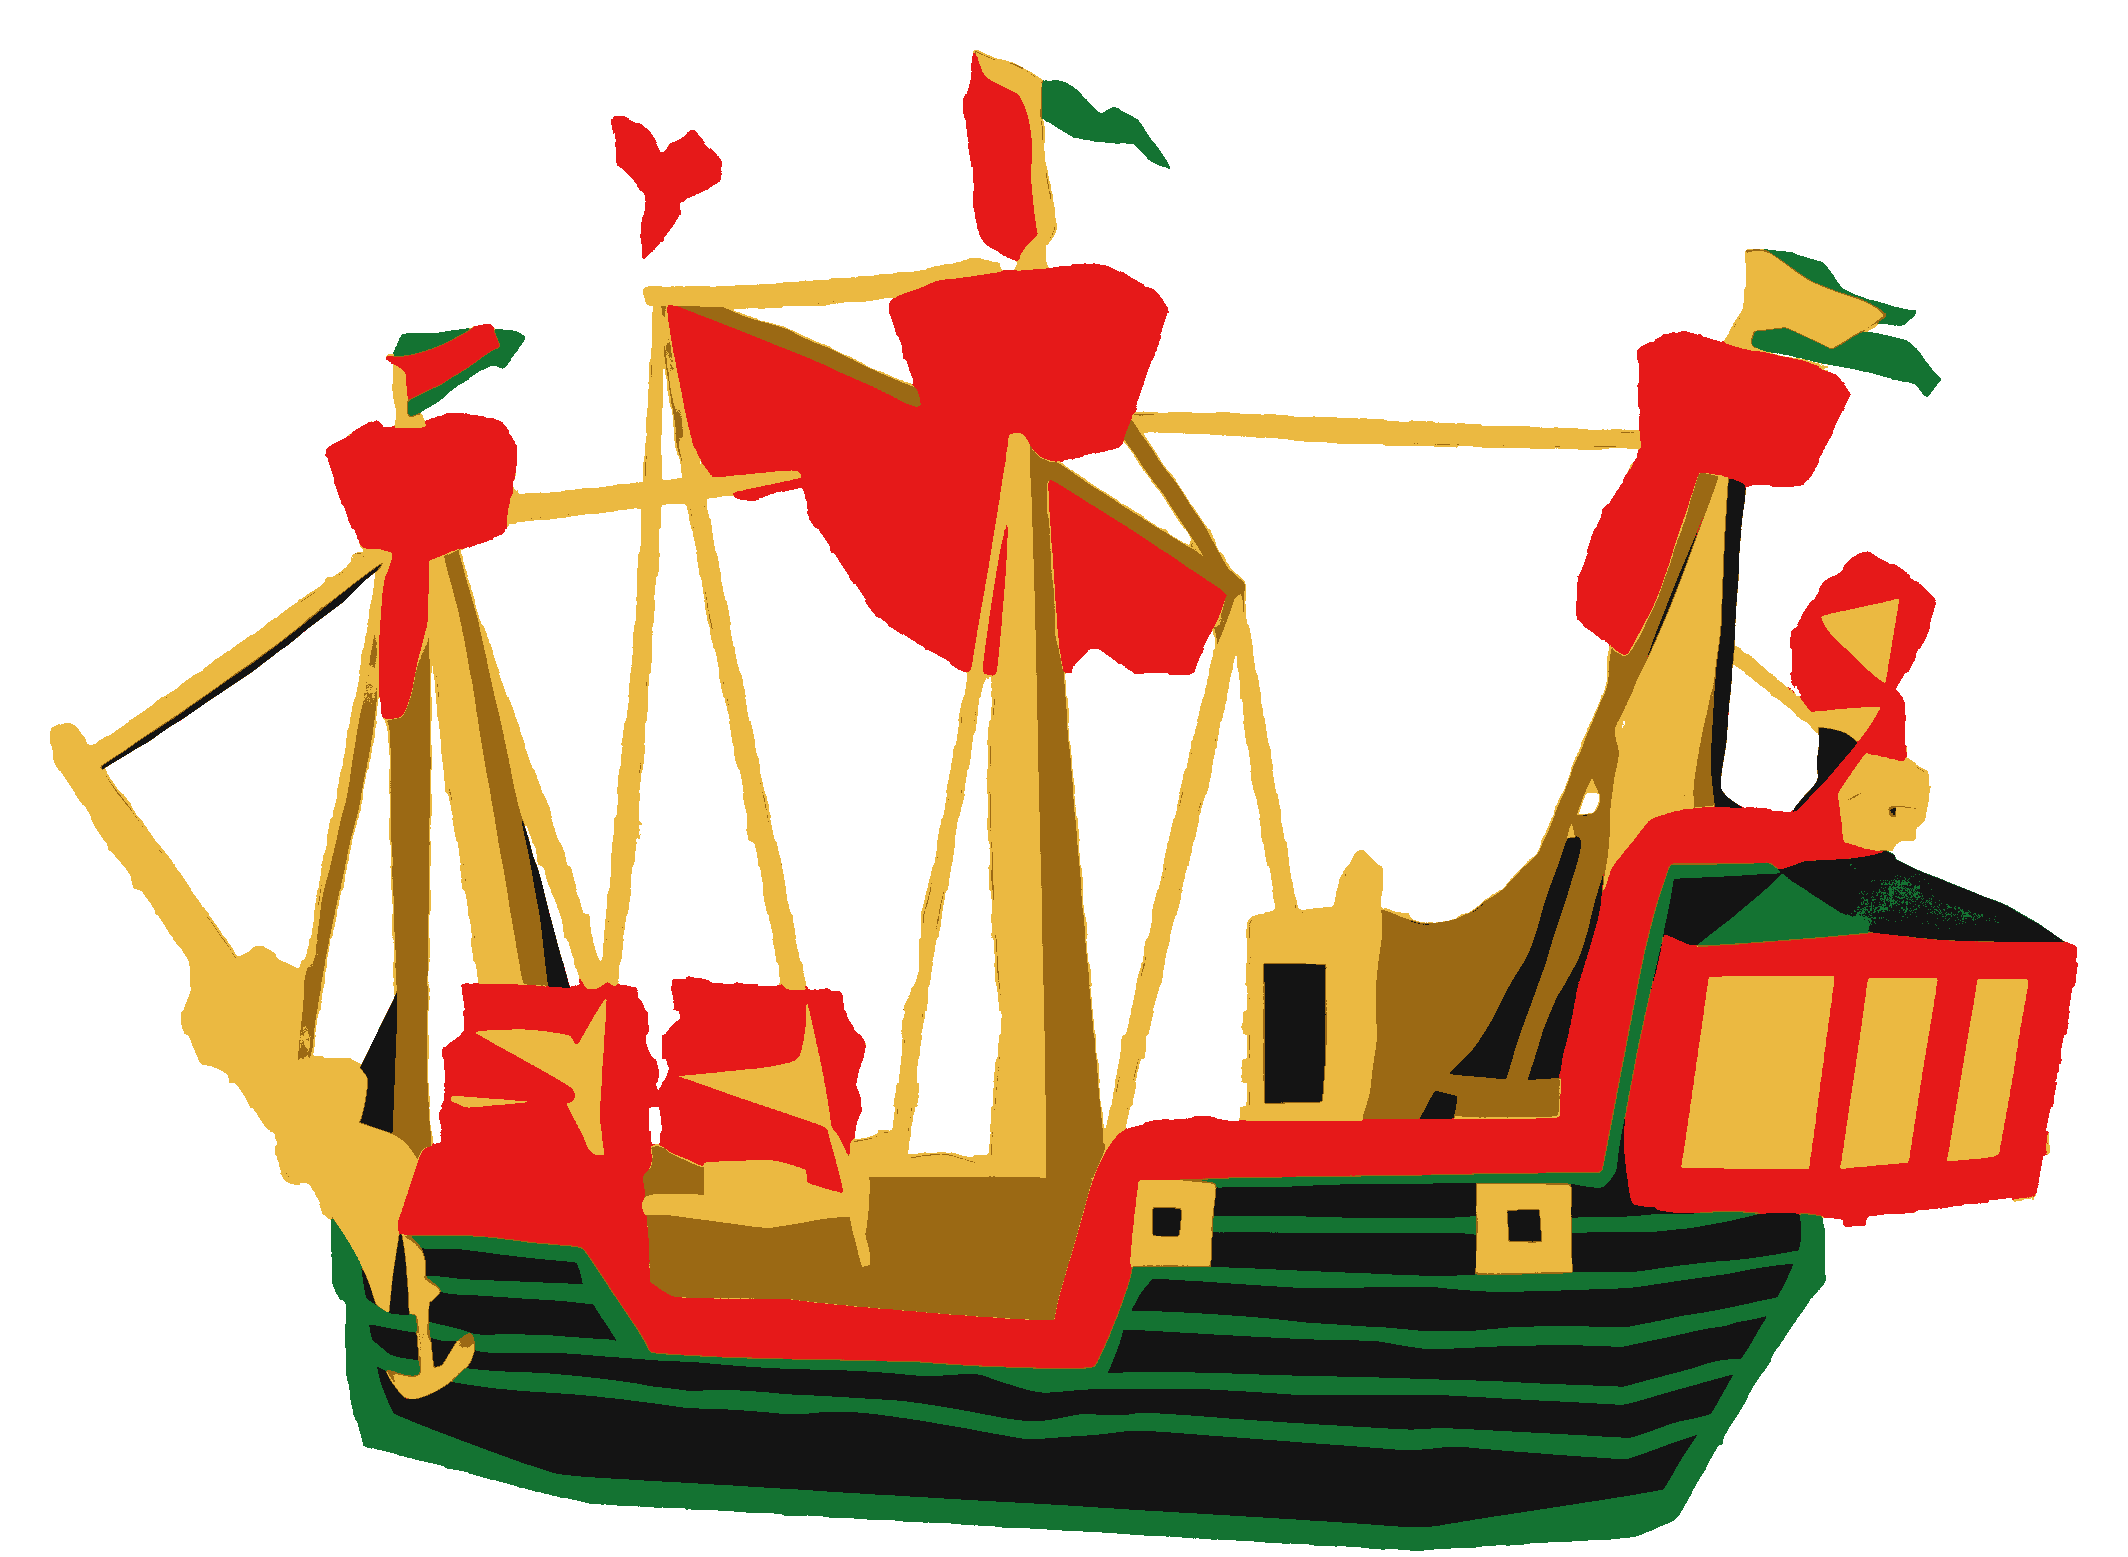
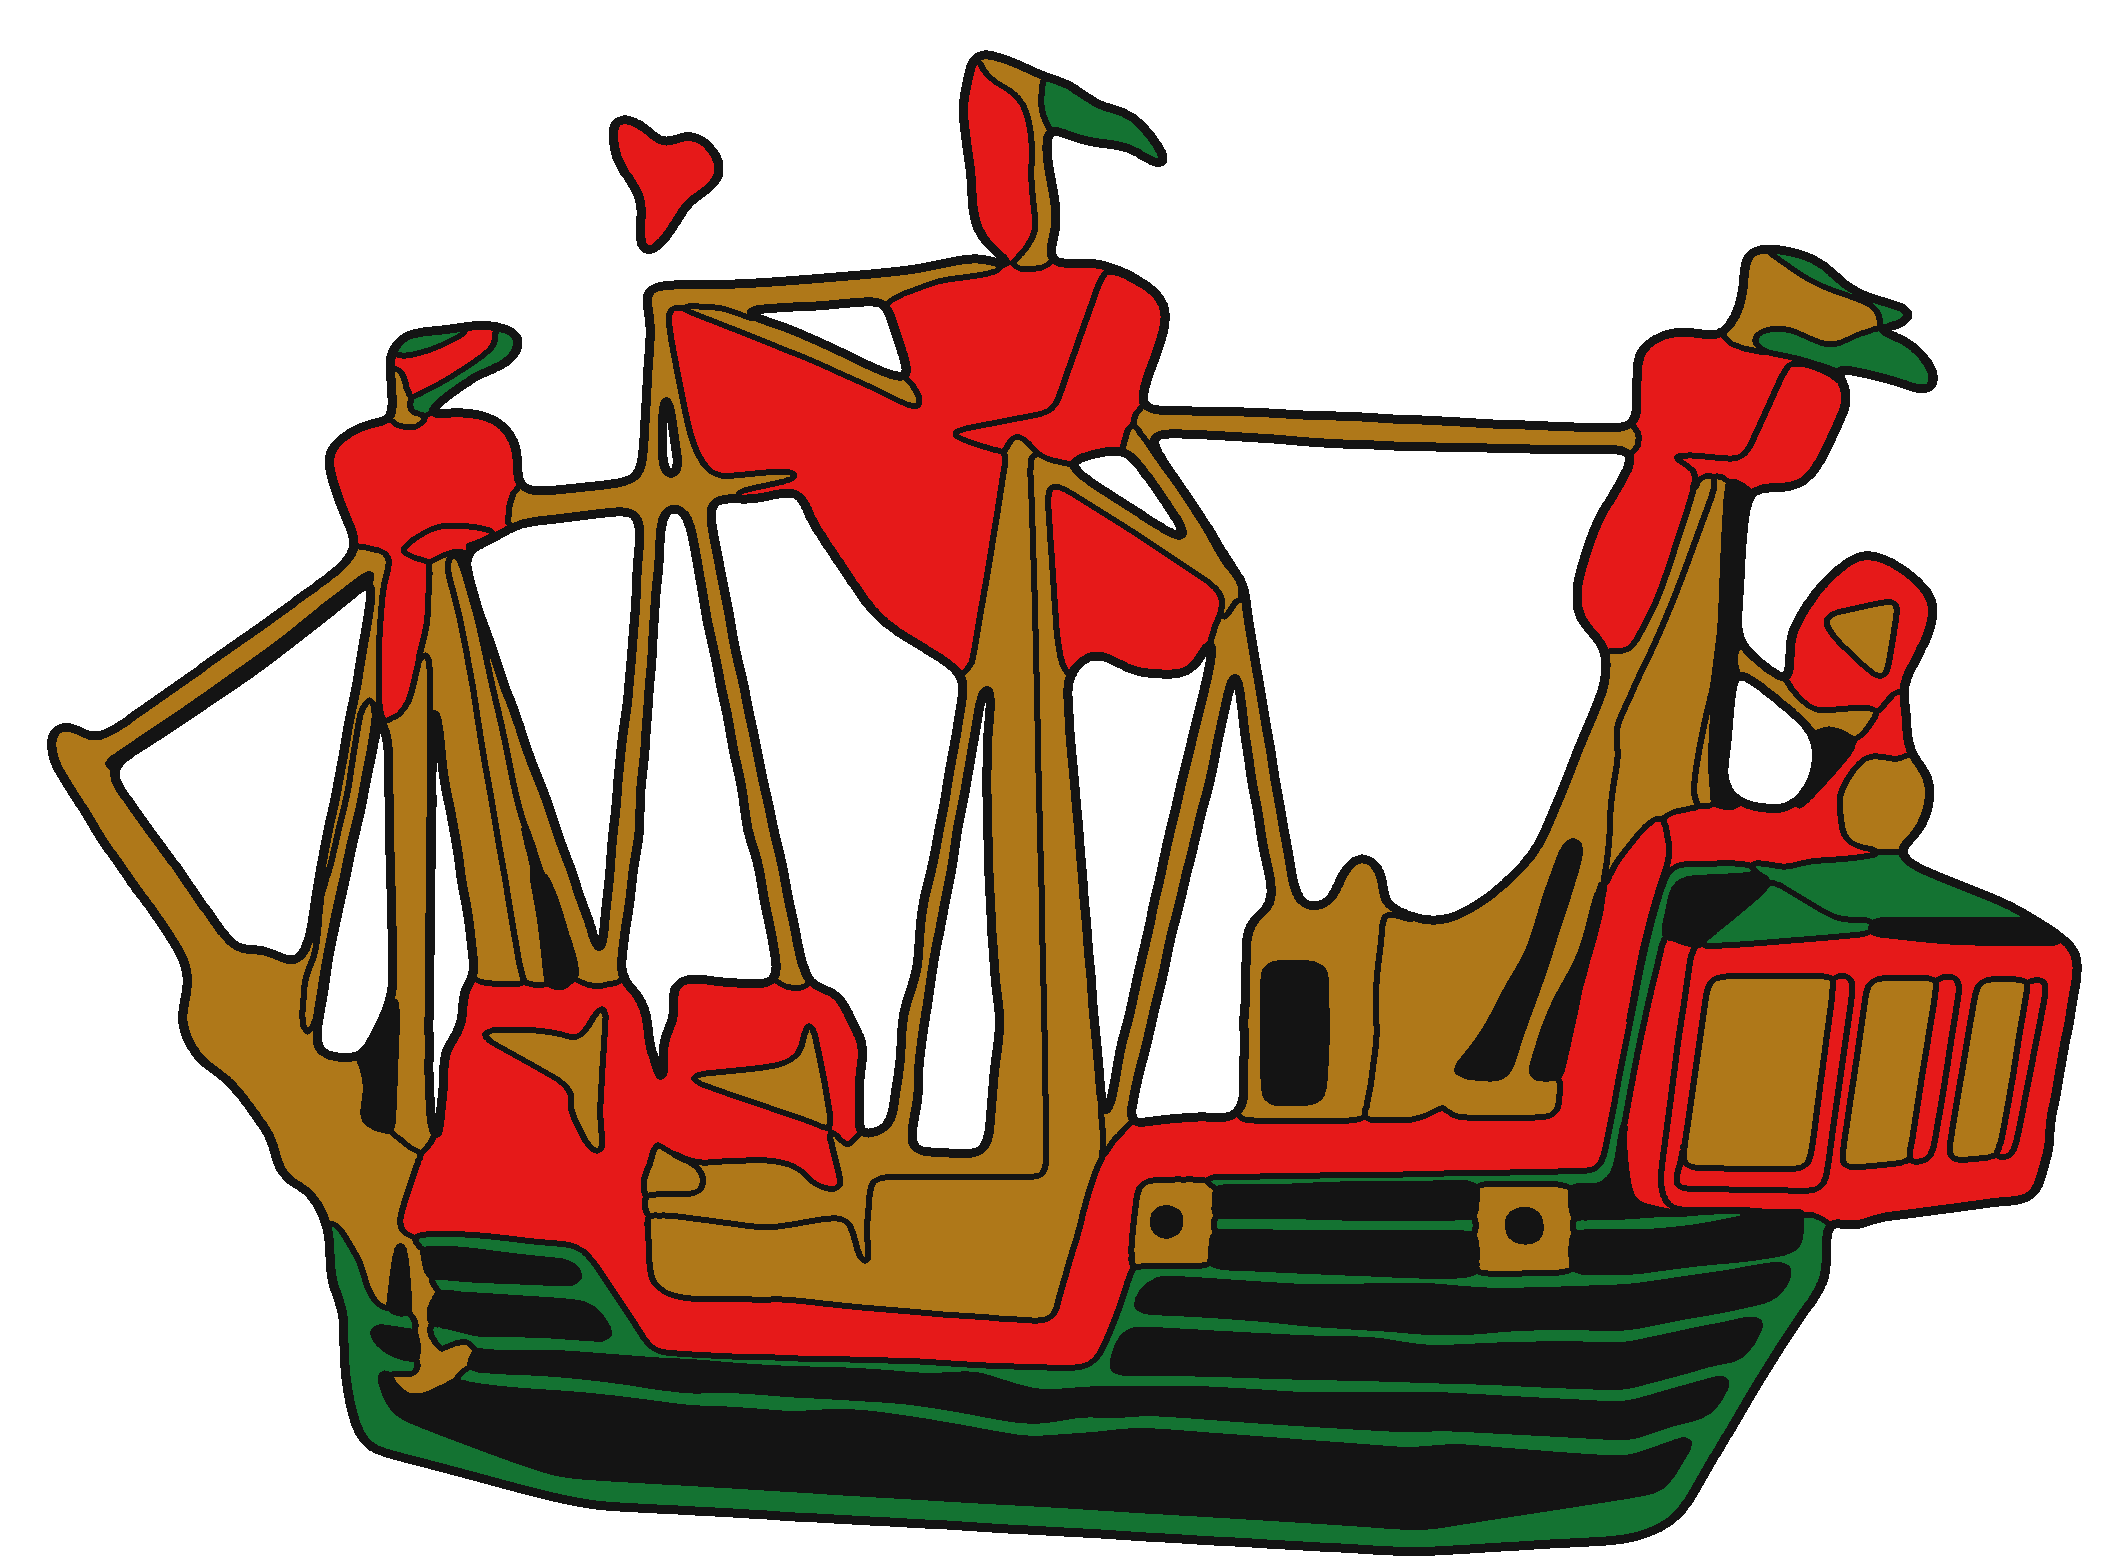
feat: clean up Pirate Ship rough edges and convert to 4-color cartoon outlined asset

Changed region(s): [[0.0, 0.0308, 0.9925, 0.9557], [0.2481, 0.9249, 0.8064, 1.0], [0.7133, 0.3699, 0.7444, 0.4008]]

diff --git a/simulator/app.js b/simulator/app.js
@@ -157,14 +157,14 @@ defaultDragonImg.onload = () => {
 };
 defaultDragonImg.src = 'assets/petes_dragon_transparent.png';
 
-// Pirate Ship Artwork (Float 5 Default - 5-Color Transparent PNG from Pirateshipsimple.png)
+// Pirate Ship Artwork (Float 5 Default - 4-Color Transparent PNG from Pirateshipsimple.png)
 const pirateShipImg = new Image();
 let pirateShipLoaded = false;
 pirateShipImg.onload = () => {
     pirateShipLoaded = true;
     notifyFloatImgLoaded();
 };
-pirateShipImg.src = 'assets/Pirateshipsimple.png';
+pirateShipImg.src = 'assets/Pirateshipsimple.png?v=20261103_pirate_4color';
 
 // Cinderella's Coach Artwork (Legacy)
 const cinderellasCoachImg = new Image();
@@ -268,10 +268,10 @@ floatArtworkImgs['spinning_turtle'].src = 'assets/Turtle_clean.png?v=20261103_tu
 floatArtworkImgs['spinning_snail'].src = 'assets/SimpleSnail.png';
 floatArtworkImgs['spinning_snail_original'].src = 'assets/SimpleSnail.png';
 floatArtworkImgs['spinning_snail_simplified'].src = 'assets/spinning_snail_simplified.png';
-floatArtworkImgs['pirate_ship'].src = 'assets/Pirateshipsimple.png';
-floatArtworkImgs['pirateshipsimple'].src = 'assets/Pirateshipsimple.png';
-floatArtworkImgs['cinderella_coach'].src = 'assets/Pirateshipsimple.png';
-floatArtworkImgs['cinderellas_coach'].src = 'assets/Pirateshipsimple.png';
+floatArtworkImgs['pirate_ship'].src = 'assets/Pirateshipsimple.png?v=20261103_pirate_4color';
+floatArtworkImgs['pirateshipsimple'].src = 'assets/Pirateshipsimple.png?v=20261103_pirate_4color';
+floatArtworkImgs['cinderella_coach'].src = 'assets/Pirateshipsimple.png?v=20261103_pirate_4color';
+floatArtworkImgs['cinderellas_coach'].src = 'assets/Pirateshipsimple.png?v=20261103_pirate_4color';
 floatArtworkImgs['petes_dragon'].src = 'assets/petes_dragon_transparent.png';
 floatArtworkImgs['builtin_dragon'].src = 'assets/petes_dragon_transparent.png';
 floatArtworkImgs['petes_dragon_transparent'].src = 'assets/petes_dragon_transparent.png';
@@ -3289,11 +3289,10 @@ const CRICUT_FLOAT_CONFIG = {
         tag: "PIRATE",
         svgFile: "pirate_ship.svg",
         layers: [
-            { id: "Layer_red", name: "Red Sails & Flag", hex: "#e61919", r: 230, g: 25, b: 25 },
-            { id: "Layer_gold", name: "Bright Gold Masts & Trim", hex: "#ebb941", r: 235, g: 185, b: 65 },
-            { id: "Layer_dark_gold", name: "Bronze Decks & Rigging", hex: "#9b6914", r: 155, g: 105, b: 20 },
-            { id: "Layer_green", name: "Ocean Waves", hex: "#147332", r: 20, g: 115, b: 50 },
-            { id: "Layer_black", name: "Hull & Chassis", hex: "#141414", r: 20, g: 20, b: 20 }
+            { id: "Layer_black", name: "Hull Stripes, Chassis & Cartoon Outlines", hex: "#141414", r: 20, g: 20, b: 20 },
+            { id: "Layer_red", name: "Battle Sails, Crow's Nests & Stern Cabin", hex: "#e61919", r: 230, g: 25, b: 25 },
+            { id: "Layer_golden_bronze", name: "Golden Bronze Masts, Rigging, Decks & Windows", hex: "#af7819", r: 175, g: 120, b: 25 },
+            { id: "Layer_green", name: "Emerald Hull Planking, Cabin Roof & Pennants", hex: "#147332", r: 20, g: 115, b: 50 }
         ]
     },
     'pirateshipsimple': {
@@ -3303,11 +3302,10 @@ const CRICUT_FLOAT_CONFIG = {
         tag: "PIRATE",
         svgFile: "pirate_ship.svg",
         layers: [
-            { id: "Layer_red", name: "Red Sails & Flag", hex: "#e61919", r: 230, g: 25, b: 25 },
-            { id: "Layer_gold", name: "Bright Gold Masts & Trim", hex: "#ebb941", r: 235, g: 185, b: 65 },
-            { id: "Layer_dark_gold", name: "Bronze Decks & Rigging", hex: "#9b6914", r: 155, g: 105, b: 20 },
-            { id: "Layer_green", name: "Ocean Waves", hex: "#147332", r: 20, g: 115, b: 50 },
-            { id: "Layer_black", name: "Hull & Chassis", hex: "#141414", r: 20, g: 20, b: 20 }
+            { id: "Layer_black", name: "Hull Stripes, Chassis & Cartoon Outlines", hex: "#141414", r: 20, g: 20, b: 20 },
+            { id: "Layer_red", name: "Battle Sails, Crow's Nests & Stern Cabin", hex: "#e61919", r: 230, g: 25, b: 25 },
+            { id: "Layer_golden_bronze", name: "Golden Bronze Masts, Rigging, Decks & Windows", hex: "#af7819", r: 175, g: 120, b: 25 },
+            { id: "Layer_green", name: "Emerald Hull Planking, Cabin Roof & Pennants", hex: "#147332", r: 20, g: 115, b: 50 }
         ]
     },
     'cinderella_coach': {
@@ -3317,11 +3315,10 @@ const CRICUT_FLOAT_CONFIG = {
         tag: "PIRATE",
         svgFile: "pirate_ship.svg",
         layers: [
-            { id: "Layer_red", name: "Red Sails & Flag", hex: "#e61919", r: 230, g: 25, b: 25 },
-            { id: "Layer_gold", name: "Bright Gold Masts & Trim", hex: "#ebb941", r: 235, g: 185, b: 65 },
-            { id: "Layer_dark_gold", name: "Bronze Decks & Rigging", hex: "#9b6914", r: 155, g: 105, b: 20 },
-            { id: "Layer_green", name: "Ocean Waves", hex: "#147332", r: 20, g: 115, b: 50 },
-            { id: "Layer_black", name: "Hull & Chassis", hex: "#141414", r: 20, g: 20, b: 20 }
+            { id: "Layer_black", name: "Hull Stripes, Chassis & Cartoon Outlines", hex: "#141414", r: 20, g: 20, b: 20 },
+            { id: "Layer_red", name: "Battle Sails, Crow's Nests & Stern Cabin", hex: "#e61919", r: 230, g: 25, b: 25 },
+            { id: "Layer_golden_bronze", name: "Golden Bronze Masts, Rigging, Decks & Windows", hex: "#af7819", r: 175, g: 120, b: 25 },
+            { id: "Layer_green", name: "Emerald Hull Planking, Cabin Roof & Pennants", hex: "#147332", r: 20, g: 115, b: 50 }
         ]
     },
     'cinderellas_coach': {
@@ -3331,11 +3328,10 @@ const CRICUT_FLOAT_CONFIG = {
         tag: "PIRATE",
         svgFile: "pirate_ship.svg",
         layers: [
-            { id: "Layer_red", name: "Red Sails & Flag", hex: "#e61919", r: 230, g: 25, b: 25 },
-            { id: "Layer_gold", name: "Bright Gold Masts & Trim", hex: "#ebb941", r: 235, g: 185, b: 65 },
-            { id: "Layer_dark_gold", name: "Bronze Decks & Rigging", hex: "#9b6914", r: 155, g: 105, b: 20 },
-            { id: "Layer_green", name: "Ocean Waves", hex: "#147332", r: 20, g: 115, b: 50 },
-            { id: "Layer_black", name: "Hull & Chassis", hex: "#141414", r: 20, g: 20, b: 20 }
+            { id: "Layer_black", name: "Hull Stripes, Chassis & Cartoon Outlines", hex: "#141414", r: 20, g: 20, b: 20 },
+            { id: "Layer_red", name: "Battle Sails, Crow's Nests & Stern Cabin", hex: "#e61919", r: 230, g: 25, b: 25 },
+            { id: "Layer_golden_bronze", name: "Golden Bronze Masts, Rigging, Decks & Windows", hex: "#af7819", r: 175, g: 120, b: 25 },
+            { id: "Layer_green", name: "Emerald Hull Planking, Cabin Roof & Pennants", hex: "#147332", r: 20, g: 115, b: 50 }
         ]
     },
     'carriage_nohorses': {
@@ -3410,18 +3406,16 @@ const FLOAT_STL_COLOR_CONFIG = {
         'golden_bronze': { name: "Cab Roof & Frame, Tender, Cowcatcher Flange, Drive Rod & Face", hex: "#a0732d", targetRgb: [160, 115, 45], role: "inlay", filename: "color_golden_bronze.stl" }
     },
     'pirate_ship': {
-        'black': { name: "Chassis, Hull & Rigging Accents", hex: "#141414", targetRgb: [20, 20, 20], role: "chassis" },
-        'red': { name: "Sails & Masthead Flag", hex: "#e61919", targetRgb: [230, 25, 25], role: "inlay", filename: "color_red.stl" },
-        'gold': { name: "Bright Gold Masts & Trim", hex: "#ebb941", targetRgb: [235, 185, 65], role: "inlay", filename: "color_gold.stl" },
-        'dark_gold': { name: "Antique Bronze Decks & Shading", hex: "#9b6914", targetRgb: [155, 105, 20], role: "inlay", filename: "color_dark_gold.stl" },
-        'green': { name: "Ocean Waves & Sea Keel", hex: "#147332", targetRgb: [20, 115, 50], role: "inlay", filename: "color_green.stl" }
+        'black': { name: "Chassis, Hull Stripes & Cartoon Outlines", hex: "#141414", targetRgb: [20, 20, 20], role: "chassis" },
+        'red': { name: "Battle Sails, Crow's Nests & Stern Cabin", hex: "#e61919", targetRgb: [230, 25, 25], role: "inlay", filename: "color_red.stl" },
+        'golden_bronze': { name: "Golden Bronze Masts, Rigging, Decks & Windows", hex: "#af7819", targetRgb: [175, 120, 25], role: "inlay", filename: "color_golden_bronze.stl" },
+        'green': { name: "Emerald Hull Planking, Cabin Roof & Pennants", hex: "#147332", targetRgb: [20, 115, 50], role: "inlay", filename: "color_green.stl" }
     },
     'pirateshipsimple': {
-        'black': { name: "Chassis, Hull & Rigging Accents", hex: "#141414", targetRgb: [20, 20, 20], role: "chassis" },
-        'red': { name: "Sails & Masthead Flag", hex: "#e61919", targetRgb: [230, 25, 25], role: "inlay", filename: "color_red.stl" },
-        'gold': { name: "Bright Gold Masts & Trim", hex: "#ebb941", targetRgb: [235, 185, 65], role: "inlay", filename: "color_gold.stl" },
-        'dark_gold': { name: "Antique Bronze Decks & Shading", hex: "#9b6914", targetRgb: [155, 105, 20], role: "inlay", filename: "color_dark_gold.stl" },
-        'green': { name: "Ocean Waves & Sea Keel", hex: "#147332", targetRgb: [20, 115, 50], role: "inlay", filename: "color_green.stl" }
+        'black': { name: "Chassis, Hull Stripes & Cartoon Outlines", hex: "#141414", targetRgb: [20, 20, 20], role: "chassis" },
+        'red': { name: "Battle Sails, Crow's Nests & Stern Cabin", hex: "#e61919", targetRgb: [230, 25, 25], role: "inlay", filename: "color_red.stl" },
+        'golden_bronze': { name: "Golden Bronze Masts, Rigging, Decks & Windows", hex: "#af7819", targetRgb: [175, 120, 25], role: "inlay", filename: "color_golden_bronze.stl" },
+        'green': { name: "Emerald Hull Planking, Cabin Roof & Pennants", hex: "#147332", targetRgb: [20, 115, 50], role: "inlay", filename: "color_green.stl" }
     },
     'title_drum': {
         'black': { name: "Chassis, Drum Face & Wheels", hex: "#11161d", targetRgb: [17, 22, 29], role: "chassis" },

diff --git a/PROJECT_PROGRESS.md b/PROJECT_PROGRESS.md
@@ -93,6 +93,21 @@ This project coordinates synchronized, addressable LED lighting across **7 runne
 
 ## Progress Log
 
+### 2026-11-03: Float 5 (Pirate Ship) 4-Color Cartoon Cleanup & Bold Black Outline Separation
+- **Unified Golden Bronze Palette & Black Outline Separation:**
+  - Consolidated the Pirate Ship float graphic (`2128 × 1557` RGBA) from 5 foreground colors down to a strict **4-color cartoon style** (**Black**, **Red**, **Golden Bronze**, and **Green**), unifying all lighter yellow regions (`#ebb941`) with the antique bronze regions into a single warm **Golden Bronze (`#af7819`)** while drawing bold `7px` **Black (`#141414`)** outlines along every former yellow-to-bronze boundary (masts, rigging stays, bowsprit figurehead, lower sail pennants, and quarterdeck doorway/bulkhead) to keep every structural element cleanly separated.
+- **Contour Smoothing, De-Speckling & 3D Sail/Roof Facet Outlines:**
+  - Applied periodic 1D Gaussian contour smoothing (`sigma = 15.0`) to eliminate `25 × 25 px` JPEG checkerboard stair-stepping along the rigging ropes, bowsprit, and lower sails.
+  - Eliminated the 208-island green/black quantization speckle cloud on the stern cabin roof, reconstructing a solid **Green (`#147332`)** roof with a crisp **Black** ridge line separating the left and right roof slopes, and added internal **Black** facet lines inside the **Red (`#e61919`)** crow's nests and billowing battle sails.
+- **Strict 4-Color Multi-Material Slicing Verification:**
+  - Verified 100% discrete 4-color quantization across all 1,531,351 foreground pixels (`alpha = 255`) with a 100% transparent background (`alpha = 0`):
+    1. **Black (`#141414` / `[20, 20, 20, 255]`):** Hull stripes, chassis, cannon portholes, and continuous cartoon outlines (585,243 px / 38.22% of foreground).
+    2. **Golden Bronze (`#af7819` / `[175, 120, 25, 255]`):** Masts, rigging, decks, bowsprit, windows, and gunports (425,401 px / 27.78% of foreground).
+    3. **Red (`#e61919` / `[230, 25, 25, 255]`):** Battle sails, crow's nests, stern cabin, and trim (400,866 px / 26.18% of foreground).
+    4. **Green (`#147332` / `[20, 115, 50, 255]`):** Emerald hull planking, stern cabin roof, and pennants (119,841 px / 7.83% of foreground).
+- **Asset Deployment & Simulator Synchronization:**
+  - Updated `assets/Pirateshipsimple.png`, `assets/pirate_ship.png`, `simulator/assets/Pirateshipsimple.png`, and `simulator/assets/pirate_ship.png`, updated 4-color layer metadata in `simulator/app.js`, and bumped cache-buster to `?v=20261103_pirate_4color`.
+
 ### 2026-11-03: Float 7 (To Honor America) Fanning White-Feathered Eagle Shoulders from Top of Shielded Chest
 - **Fanning Eagle Shoulder Geometry:**
   - Updated the Bald Eagle on the *To Honor America* finale float so **shoulders with white feathers (outlined in blue)** emerge from **both sides of the top of the Eagle's shielded chest**, starting narrow right at the upper corners of the shield (`y = 244..284`) and fanning out radially in three overlapping tiers into the two large cathedral-arch wings.
